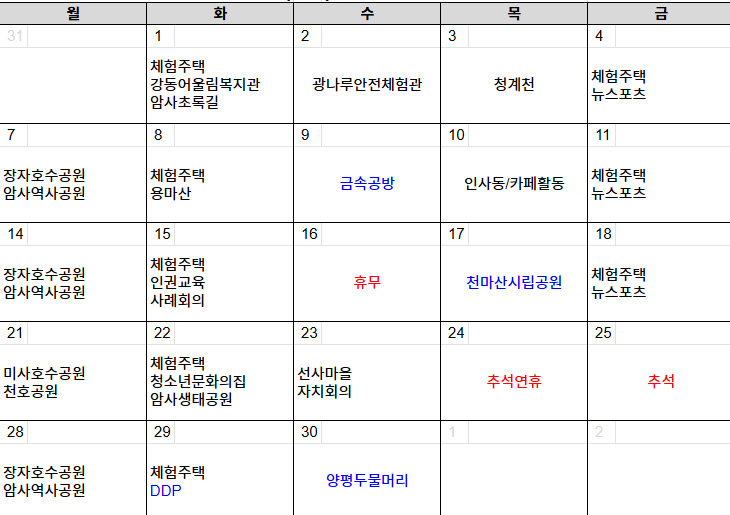
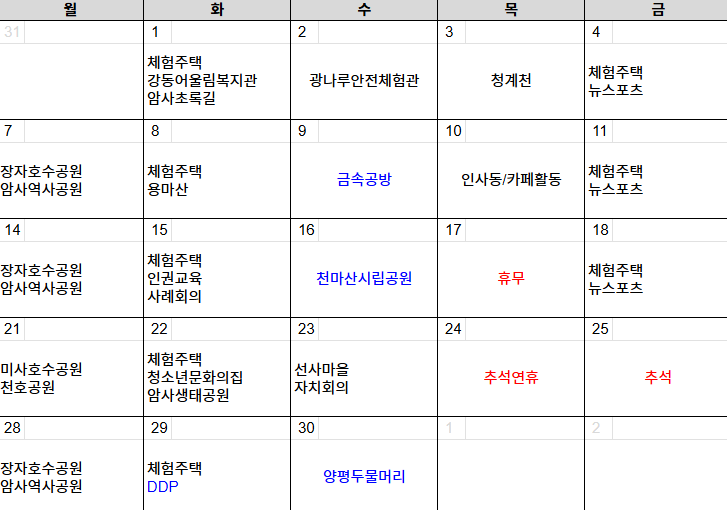
체중데이터추가및9월계획서사진변경

diff --git a/insertWeight.js b/insertWeight.js
@@ -1,0 +1,214 @@
+import { app } from "./firebase.js";
+
+import {
+    getFirestore,
+    collection,
+    getDocs,
+    doc,
+    writeBatch
+}
+from "https://www.gstatic.com/firebasejs/12.16.0/firebase-firestore.js";
+
+
+const db = getFirestore(app);
+
+
+/* =========================
+   입력할 체중 데이터
+========================= */
+
+const weightData = [
+
+    { date: "2025-10-31", weight: 100.90 },
+
+    { date: "2025-11-05", weight: 100.90 },
+    { date: "2025-11-12", weight: 98.60 },
+    { date: "2025-11-19", weight: 98.90 },
+    { date: "2025-11-24", weight: 99.80 },
+
+    { date: "2025-12-01", weight: 99.90 },
+    { date: "2025-12-04", weight: 98.60 },
+    { date: "2025-12-08", weight: 98.30 },
+    { date: "2025-12-12", weight: 98.50 },
+    { date: "2025-12-19", weight: 98.20 },
+    { date: "2025-12-22", weight: 99.20 },
+    { date: "2025-12-26", weight: 98.40 },
+
+    { date: "2026-01-02", weight: 97.70 },
+    { date: "2026-01-12", weight: 98.40 },
+    { date: "2026-01-15", weight: 99.40 },
+    { date: "2026-01-21", weight: 96.67 },
+    { date: "2026-01-22", weight: 95.52 },
+    { date: "2026-01-26", weight: 97.22 },
+    { date: "2026-01-28", weight: 95.02 },
+    { date: "2026-01-29", weight: 96.97 },
+    { date: "2026-01-30", weight: 94.85 },
+
+    { date: "2026-02-02", weight: 95.27 },
+    { date: "2026-02-04", weight: 95.65 },
+    { date: "2026-02-05", weight: 96.97 },
+    { date: "2026-02-06", weight: 95.60 },
+    { date: "2026-02-09", weight: 99.56 },
+    { date: "2026-02-11", weight: 96.92 },
+    { date: "2026-02-12", weight: 97.02 },
+    { date: "2026-02-13", weight: 99.62 },
+    { date: "2026-02-19", weight: 99.80 },
+    { date: "2026-02-20", weight: 100.80 },
+    { date: "2026-02-23", weight: 98.13 },
+    { date: "2026-02-24", weight: 98.63 },
+    { date: "2026-02-25", weight: 100.02 },
+    { date: "2026-02-26", weight: 98.80 },
+    { date: "2026-02-27", weight: 100.72 }
+
+];
+
+
+
+/* =========================
+   데이터 입력
+========================= */
+
+async function insertWeights() {
+
+    try {
+
+        console.log("체중 데이터 입력 시작");
+
+
+        /* 기존 records 확인 */
+
+        const snapshot =
+            await getDocs(
+                collection(db, "records")
+            );
+
+
+        const existing =
+            new Set();
+
+
+        snapshot.forEach(function (item) {
+
+            const data =
+                item.data();
+
+
+            if (
+                data.date &&
+                data.weight !== undefined
+            ) {
+
+                existing.add(
+                    `${data.date}|${Number(data.weight).toFixed(2)}`
+                );
+
+            }
+
+        });
+
+
+
+        /* Batch 생성 */
+
+        const batch =
+            writeBatch(db);
+
+
+        let added = 0;
+
+        let skipped = 0;
+
+
+
+        weightData.forEach(function (item, index) {
+
+            const key =
+                `${item.date}|${Number(item.weight).toFixed(2)}`;
+
+
+            /* 이미 같은 기록이 있으면 건너뜀 */
+
+            if (existing.has(key)) {
+
+                skipped++;
+
+                return;
+
+            }
+
+
+
+            /* 새로운 문서 ID */
+
+            const docId =
+                `importWeight_${item.date.replaceAll("-", "")}_${index + 1}`;
+
+
+            const weightDoc =
+                doc(
+                    db,
+                    "records",
+                    docId
+                );
+
+
+            batch.set(
+                weightDoc,
+                {
+
+                    date: item.date,
+
+                    weight: item.weight
+
+                }
+            );
+
+
+            added++;
+
+        });
+
+
+
+        /* 실제 저장 */
+
+        if (added > 0) {
+
+            await batch.commit();
+
+        }
+
+
+
+        console.log(
+            `입력 완료: ${added}개 추가 / ${skipped}개 건너뜀`
+        );
+
+
+        alert(
+            `체중 데이터 입력 완료!\n\n` +
+            `${added}개 추가\n` +
+            `${skipped}개는 이미 있어서 건너뜀`
+        );
+
+
+    }
+    catch (error) {
+
+        console.error(
+            "체중 데이터 입력 실패:",
+            error
+        );
+
+
+        alert(
+            "입력 실패\n\n" +
+            error.message
+        );
+
+    }
+
+}
+
+
+insertWeights();
